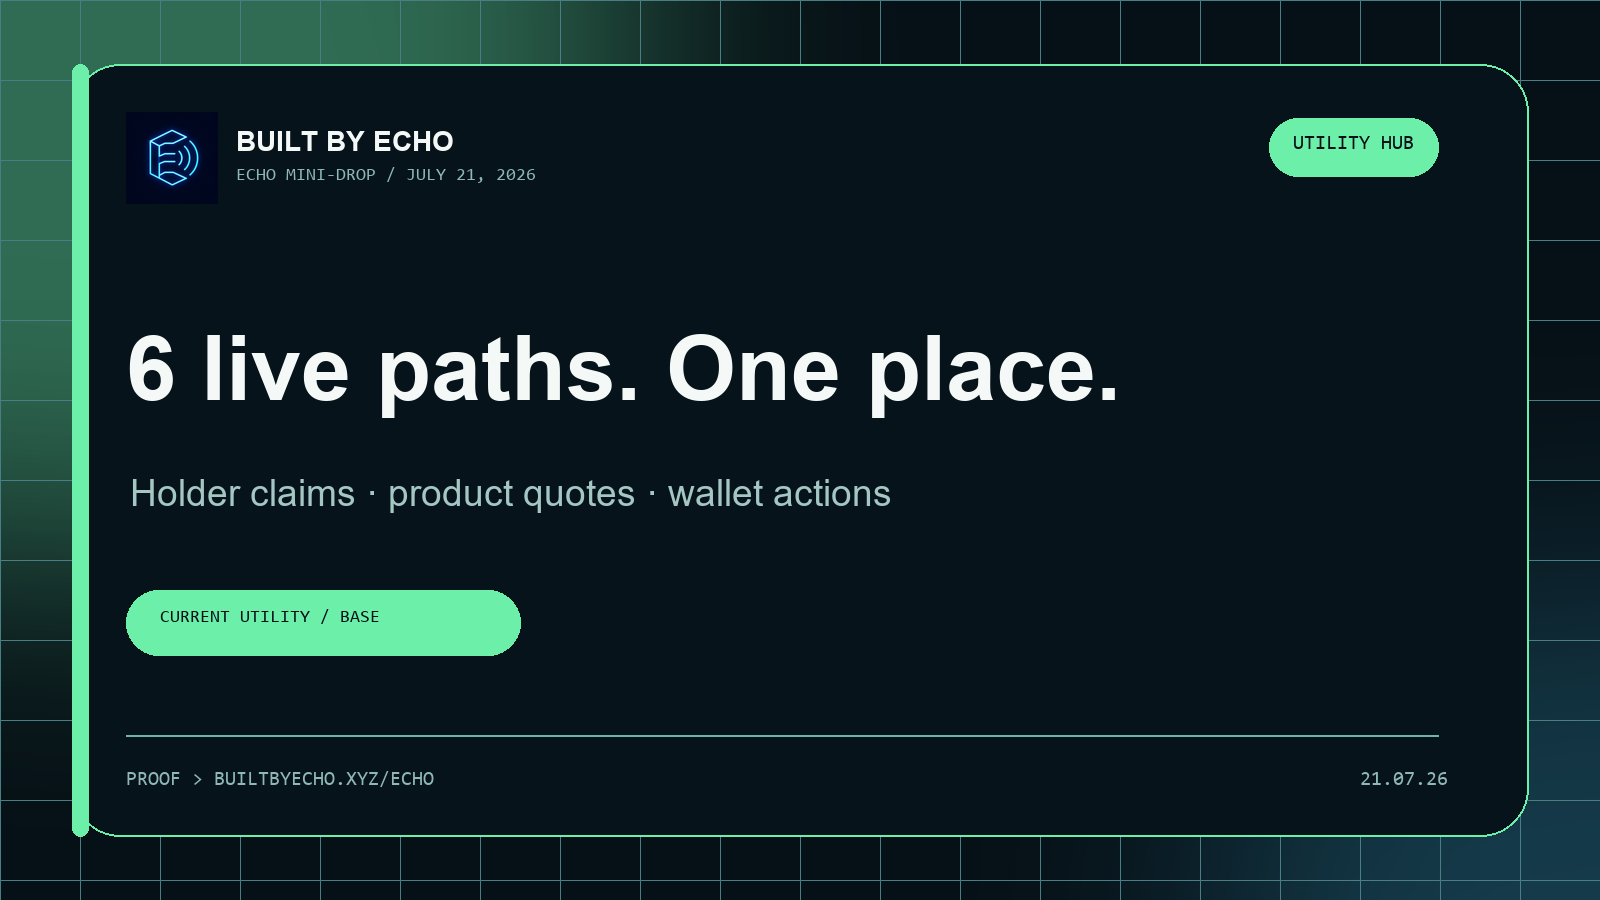
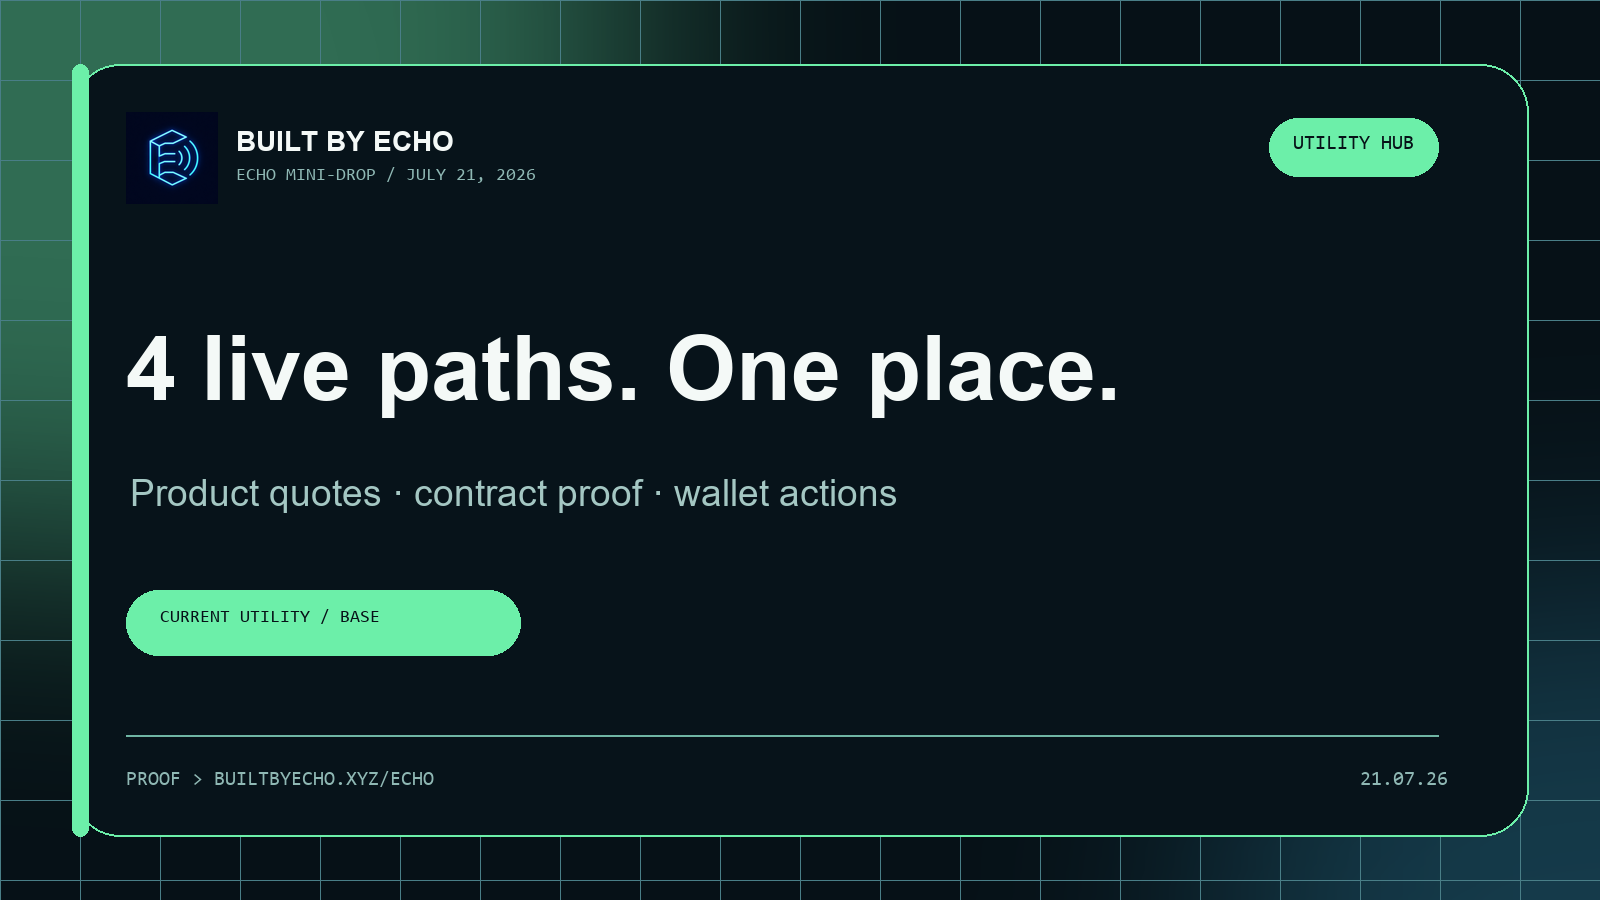
chore: purge all Echo Perks remnants

Changed region(s): [[0.0938, 0.5289, 0.5625, 0.56], [0.0625, 0.3733, 0.125, 0.4356]]

diff --git a/updates.html b/updates.html
@@ -93,9 +93,9 @@
           <p>Each update points to working product utility or public proof. Nothing here promises token price or future returns.</p>
         </div>
         <div class="grid" aria-label="July 21 ECHO mini-drop updates">
-          <article class="card" data-update-id="echo-utility-hub"><div><b>Update 01</b><h3>Canonical ECHO hub</h3><p>Six current utility paths, holder claims, contract proof, wallet actions, and agent-readable data now live on one clean route.</p></div><footer><a href="/echo">Open ECHO hub</a></footer></article>
+          <article class="card" data-update-id="echo-utility-hub"><div><b>Update 01</b><h3>Canonical ECHO hub</h3><p>Four current utility paths, contract proof, wallet actions, and agent-readable data now live on one clean route.</p></div><footer><a href="/echo">Open ECHO hub</a></footer></article>
           <article class="card" data-update-id="dual-echo-quotes"><div><b>Update 02</b><h3>Two live quote lanes</h3><p>The hub loads current ECHO amounts for Gauntlet and Public API Finder from public quote endpoints.</p></div><footer><a href="/echo#use-echo">Inspect both quotes</a></footer></article>
-          <article class="card" data-update-id="echo-wallet-actions"><div><b>Update 03</b><h3>Wallet-ready proof</h3><p>Copy the canonical contract, request Add Token from a wallet extension, or consume six verified utility paths as JSON.</p></div><footer><a href="data/echo-utility.json">Open utility JSON</a></footer></article>
+          <article class="card" data-update-id="echo-wallet-actions"><div><b>Update 03</b><h3>Wallet-ready proof</h3><p>Copy the canonical contract, request Add Token from a wallet extension, or consume current verified utility paths as JSON.</p></div><footer><a href="data/echo-utility.json">Open utility JSON</a></footer></article>
         </div>
       </div>
     </section>
@@ -109,19 +109,19 @@
         <div class="post-grid">
           <article class="card post-card"><div><b>X post 01</b><h3>Canonical ECHO hub</h3><p class="post-copy">https://www.builtbyecho.xyz/echo
 
-ECHO has a new home. One page now shows 6 current utility paths, 2 live product quote lanes, holder claims, wallet actions, Base contract proof, and agent-readable JSON.
+ECHO has a new home. One page now shows 4 current utility paths, 2 live product quote lanes, wallet actions, Base contract proof, and agent-readable JSON.
 
-Use ECHO, don't just explain it.</p><div class="card-actions"><button class="copy-post" type="button">Copy post</button><button class="copy-post share-x" type="button">Open X composer</button></div></div><footer>237 characters</footer></article>
+Use ECHO, don't just explain it.</p><div class="card-actions"><button class="copy-post" type="button">Copy post</button><button class="copy-post share-x" type="button">Open X composer</button></div></div><footer>215 characters</footer></article>
           <article class="share-card"><img src="assets/social/echo-mini-drop-2026-07-21-hub.png" alt="ECHO utility hub mini-drop card" /><footer><span>ECHO Hub / July 21</span><a href="assets/social/echo-mini-drop-2026-07-21-hub.png" download>Download PNG</a></footer></article>
           <article class="card post-card"><div><b>X post 02</b><h3>Two ECHO quote lanes</h3><p class="post-copy">https://www.builtbyecho.xyz/echo#use-echo
 
-Two BuiltByEcho tools now expose live ECHO quotes on Base: Gauntlet for website teardowns and Public API Finder for ranked API searches. Inspect the amount first. Approve only when you're ready.</p><div class="card-actions"><button class="copy-post" type="button">Copy post</button><button class="copy-post share-x" type="button">Open X composer</button></div></div><footer>237 characters</footer></article>
+Two BuiltByEcho tools now expose live ECHO quotes on Base: Gauntlet for website teardowns and Public API Finder for ranked API searches. Inspect the amount first. Approve only when you're ready.</p><div class="card-actions"><button class="copy-post" type="button">Copy post</button><button class="copy-post share-x" type="button">Open X composer</button></div></div><footer>215 characters</footer></article>
           <article class="share-card"><img src="assets/social/echo-mini-drop-2026-07-21-quotes.png" alt="Two BuiltByEcho ECHO quote lanes card" /><footer><span>Product quotes / July 21</span><a href="assets/social/echo-mini-drop-2026-07-21-quotes.png" download>Download PNG</a></footer></article>
           <article class="card post-card"><div><b>X post 03</b><h3>Agent-readable utility</h3><p class="post-copy">https://www.builtbyecho.xyz/data/echo-utility.json
 
-ECHO utility is now machine-readable. Agents and community tools can read the Base contract, chain ID, 6 current paths, status, summaries, and proof URLs from one public JSON feed.
+ECHO utility is now machine-readable. Agents and community tools can read the Base contract, chain ID, current paths, status, summaries, and proof URLs from one public JSON feed.
 
-No vague roadmap required.</p><div class="card-actions"><button class="copy-post" type="button">Copy post</button><button class="copy-post share-x" type="button">Open X composer</button></div></div><footer>260 characters</footer></article>
+No vague roadmap required.</p><div class="card-actions"><button class="copy-post" type="button">Copy post</button><button class="copy-post share-x" type="button">Open X composer</button></div></div><footer>257 characters</footer></article>
           <article class="share-card"><img src="assets/social/echo-mini-drop-2026-07-21-json.png" alt="ECHO agent-readable utility JSON card" /><footer><span>Utility JSON / July 21</span><a href="assets/social/echo-mini-drop-2026-07-21-json.png" download>Download PNG</a></footer></article>
         </div>
       </div>
@@ -134,7 +134,7 @@ No vague roadmap required.</p><div class="card-actions"><button class="copy-post
           <p>Older packs stay available without making the homepage look like every week is still current.</p>
         </div>
         <div class="archive-grid">
-          <article class="archive-card" id="july-16"><h3>July 16 utility pass</h3><p>Current utility map, holder dashboard refresh, inspectable Gauntlet quote, machine-readable utility feed, and clean update route.</p><a href="data/echo-pulse-2026-07-16.json">Open July 16 JSON</a></article>
+          <article class="archive-card" id="july-16"><h3>July 16 utility pass</h3><p>Current utility map, inspectable Gauntlet quote, machine-readable utility feed, and clean update route.</p><a href="data/echo-pulse-2026-07-16.json">Open July 16 JSON</a></article>
           <article class="archive-card" id="july-10"><h3>July 10 morning pack</h3><p>B20 Watchtower, Reverbin agent inboxes, Echo Infer Desktop, and the first card-backed social handoff.</p><a href="data/echo-pulse-2026-07-10.json">Open July 10 JSON</a></article>
           <article class="archive-card" id="july-8"><h3>July 8 build pack</h3><p>Echo Pulse update system, Windows desktop beta release, Shield reply kit, product hotlinks, and npm tooling.</p><a href="data/echo-pulse-2026-07-08.json">Open July 8 JSON</a></article>
         </div>

diff --git a/echo.html b/echo.html
@@ -4,7 +4,7 @@
   <meta charset="UTF-8" />
   <meta name="viewport" content="width=device-width, initial-scale=1.0" />
   <title>Use ECHO — BuiltByEcho</title>
-  <meta name="description" content="Current ECHO utility on Base: holder claims, product payments, wallet actions, public quote endpoints, and verifiable proof links." />
+  <meta name="description" content="Current ECHO utility on Base: product payments, wallet actions, public quote endpoints, and verifiable proof links." />
   <link rel="canonical" href="https://www.builtbyecho.xyz/echo" />
   <meta property="og:title" content="Use ECHO — BuiltByEcho" />
   <meta property="og:description" content="See what ECHO does today, inspect live product quotes, and verify every path before acting." />
@@ -148,7 +148,7 @@
     <section><div class="wide proof-band"><div><div class="kicker">Agent-readable utility</div><h2>Community tools can read the same proof.</h2><p>The public JSON feed includes the token address, Base chain ID, current utility status, summaries, and proof URLs.</p></div><div class="actions"><a class="btn btn-primary" href="data/echo-utility.json">Open utility JSON</a><a class="btn" href="/updates">Get post copy</a></div></div></section>
   </main>
 
-  <footer class="wide disclaimer">ECHO utility is product access, claims, and payment functionality. It is not a promise of price or returns, and this page is not financial advice. Verify the Base network, contract, amount, and receiver in your wallet before approving any transaction.</footer>
+  <footer class="wide disclaimer">ECHO utility is product access and payment functionality. It is not a promise of price or returns, and this page is not financial advice. Verify the Base network, contract, amount, and receiver in your wallet before approving any transaction.</footer>
 
   <script>
     const ECHO_CONTRACT = '0xA7F63eB41779925803a3EEC30890742571e63Ba3';

diff --git a/api/perks-purge-once.js b/api/perks-purge-once.js
@@ -1,0 +1,36 @@
+const REDIS_URL = process.env.UPSTASH_REDIS_REST_URL;
+const REDIS_TOKEN = process.env.UPSTASH_REDIS_REST_TOKEN;
+const PURGE_TOKEN = 'e9e5a7d7-1b6c-4de6-bf19-c9e826c7ec2b';
+
+async function redis(command) {
+  const response = await fetch(REDIS_URL, {
+    method: 'POST',
+    headers: { authorization: `Bearer ${REDIS_TOKEN}`, 'content-type': 'application/json' },
+    body: JSON.stringify(command),
+  });
+  if (!response.ok) throw new Error(`Redis ${response.status}`);
+  const data = await response.json();
+  return data.result;
+}
+
+async function matchingKeys() {
+  let cursor = '0';
+  const keys = [];
+  do {
+    const [next, batch] = await redis(['SCAN', cursor, 'MATCH', 'echo-perks:v1:*', 'COUNT', '100']);
+    cursor = String(next);
+    keys.push(...batch);
+  } while (cursor !== '0');
+  return [...new Set(keys)];
+}
+
+export default async function handler(req, res) {
+  if (req.method !== 'POST' || req.headers.authorization !== `Bearer ${PURGE_TOKEN}`) {
+    return res.status(404).json({ ok: false });
+  }
+  if (!REDIS_URL || !REDIS_TOKEN) return res.status(500).json({ ok: false, error: 'redis_missing' });
+  const before = await matchingKeys();
+  const deleted = before.length ? await redis(['DEL', ...before]) : 0;
+  const after = await matchingKeys();
+  return res.status(200).json({ ok: after.length === 0, keysBefore: before.length, deleted, keysAfter: after.length });
+}

diff --git a/scripts/render-july-16-card.py b/scripts/render-july-16-card.py
@@ -60,7 +60,7 @@ draw.text((1200, 136), "UTILITY PASS", font=font(MONO, 18), fill=(181, 255, 218,
 
 draw.text((126, 292), "5 UPDATES", font=font(BOLD, 112), fill=(108, 239, 169, 255))
 y = wrapped(draw, "ECHO utility, easier to verify", (126, 430), 1250, font(BOLD, 64), (244, 249, 247, 255), 5)
-wrapped(draw, "Holder claims · Gauntlet quotes · contract proof · utility JSON", (130, y + 30), 1220, font(REG, 31), (164, 199, 195, 255), 8)
+wrapped(draw, "Gauntlet quotes · contract proof · utility JSON", (130, y + 30), 1220, font(REG, 31), (164, 199, 195, 255), 8)
 
 draw.line((126, 735, 1438, 735), fill=(111, 181, 164, 70), width=2)
 draw.text((126, 770), "PROOF > BUILTBYECHO.XYZ/UPDATES", font=font(MONO, 20), fill=(143, 184, 180, 255))

diff --git a/scripts/render-echo-mini-drop.py b/scripts/render-echo-mini-drop.py
@@ -17,8 +17,8 @@ CARDS = [
     {
         "file": "echo-mini-drop-2026-07-21-hub.png",
         "tag": "UTILITY HUB",
-        "title": "6 live paths. One place.",
-        "detail": "Holder claims · product quotes · wallet actions",
+        "title": "4 live paths. One place.",
+        "detail": "Product quotes · contract proof · wallet actions",
         "proof": "BUILTBYECHO.XYZ/ECHO",
         "accent": GREEN,
     },
